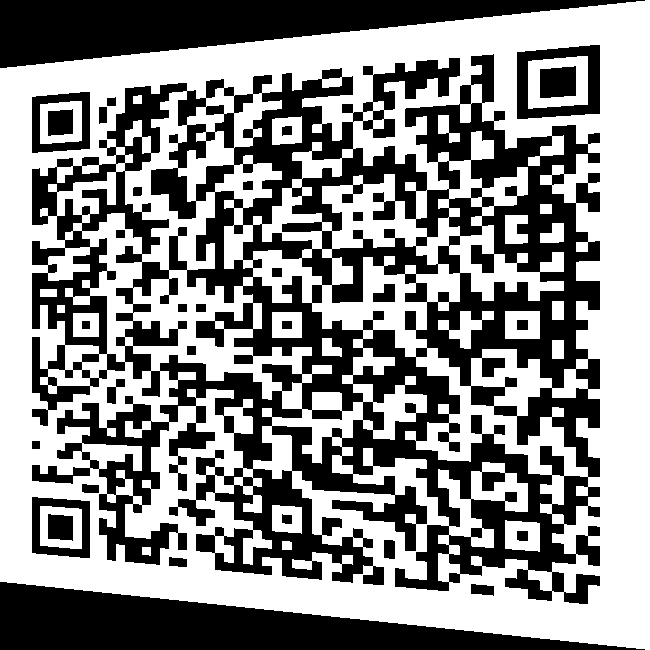
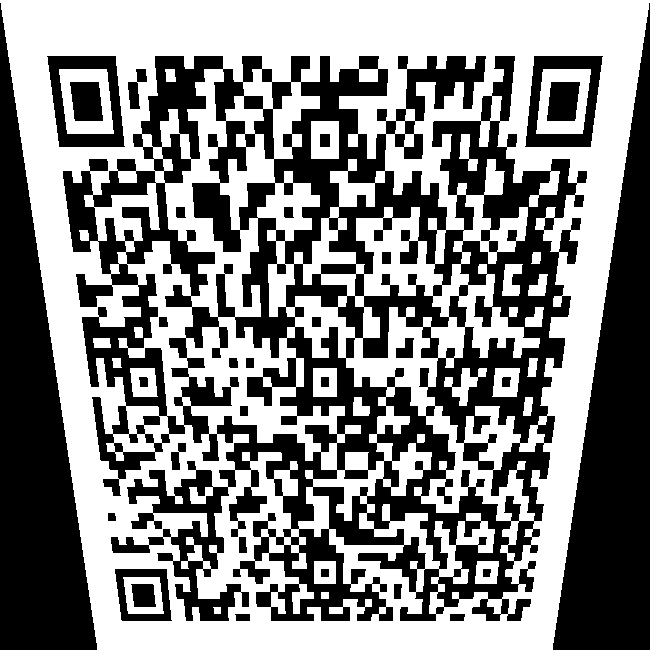
slider bar adjustment

diff --git a/main_gui.py b/main_gui.py
@@ -42,7 +42,7 @@ class RightFrame(Frame, ):
     def initUI(self):
 
         # self.pack(fill=BOTH, expand=True)
-        self.pack(side=RIGHT, fill=X)
+        self.pack(side=RIGHT, fill=X, expand=True)
 
 
         frame1 = Frame(self)
@@ -62,7 +62,7 @@ class RightFrame(Frame, ):
         lbl2.pack(side=LEFT, padx=5, pady=5)
         scale_x = Scale(frame2, from_=-100, to=100,
                         command=self.onScale_x, orient=HORIZONTAL)
-        scale_x.pack(side=RIGHT, padx=15)
+        scale_x.pack(side=RIGHT, padx=15, fill=X, expand=True)
         self.x_pos = DoubleVar()
 
         frame3 = Frame(self)
@@ -71,7 +71,7 @@ class RightFrame(Frame, ):
         lbl3.pack(side=LEFT, padx=5, pady=5)
         scale_y = Scale(frame3, from_=-100, to=100,
                         command=self.onScale_y, orient=HORIZONTAL)
-        scale_y.pack(side=RIGHT, padx=15)
+        scale_y.pack(side=RIGHT, padx=15, expand=True, fill=X)
         self.y_pos = DoubleVar()
 
         frame4 = Frame(self)
@@ -117,7 +117,7 @@ class RightFrame(Frame, ):
 def main():
     root = Tk()
     root.title('QR_distortor')
-    w = 1000
+    w = 1200
     h = 750
 
     sw = root.winfo_screenwidth()

diff --git a/distort_qr.py b/distort_qr.py
@@ -15,7 +15,7 @@ def find_coeffs(pb, pa):
 
 def find_new_xy(w, h, x_pos, y_pos):
     wide_range = [-100, 100]
-    narrow_range = [-0.3, 0.3]
+    narrow_range = [-0.15, 0.15]
     x_coeff = np.interp(x_pos, wide_range, narrow_range)
     y_coeff = np.interp(y_pos, wide_range, narrow_range)
     # print(x_coeff)
